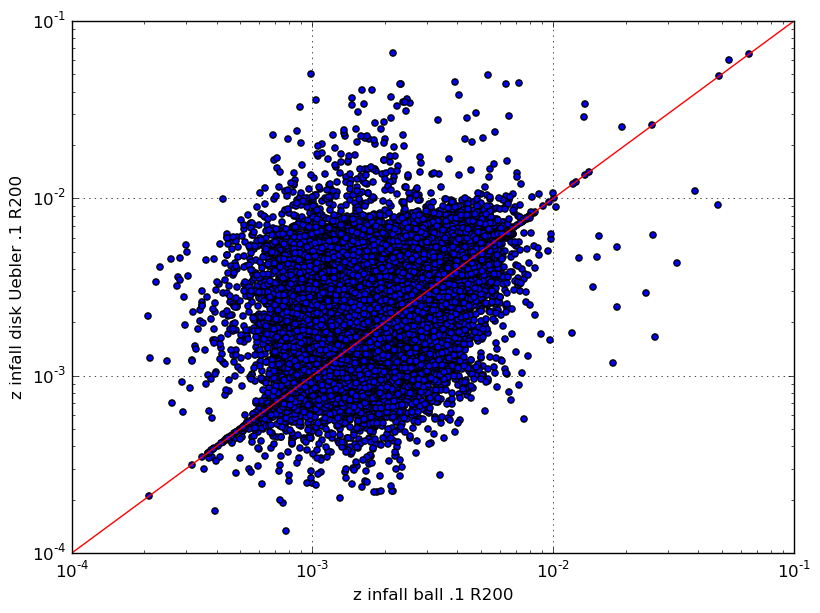
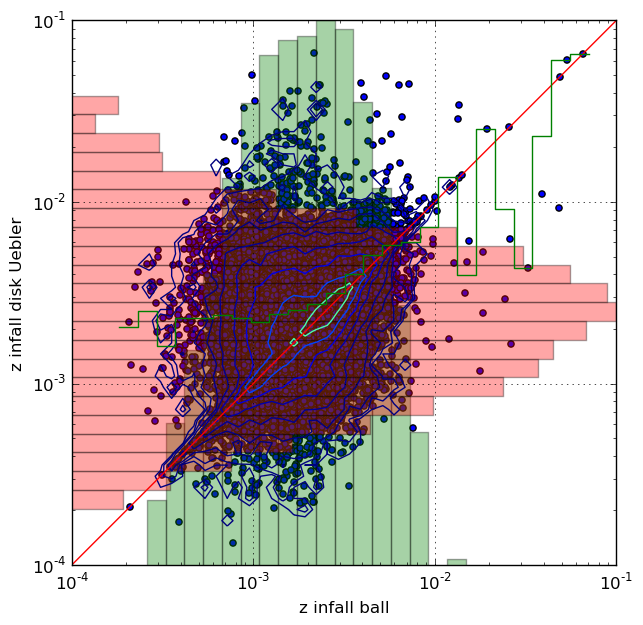
add average plot

diff --git a/1/z_gal_vs_z_halo.py b/1/z_gal_vs_z_halo.py
@@ -3,6 +3,8 @@ import matplotlib.pyplot as plt
 import numpy as np
 from scipy import stats
 import utils
+import matplotlib.cm as cm
+import matplotlib.mlab as mlab
 
 filename = __file__
 
@@ -22,17 +24,42 @@ disk_z = tracked_disk.gas['metals_at_infall'] / tracked_disk.gas['mass_at_infall
 halo_z_1st_infall = [x[0] for x in halo_z]
 disk_z_1st_infall = [x[0] for x in disk_z]
 
+count_h, edges_h, count = stats.binned_statistic(halo_z_1st_infall, range(len(halo_z_1st_infall)), statistic='count', bins=np.logspace(-4, -1, 30))
+normalisation = .1/float(max(count_h))
+count_h = np.array(count_h).astype(float) * normalisation 
+count_d, edges_d, count = stats.binned_statistic(disk_z_1st_infall, range(len(halo_z_1st_infall)), statistic='count', bins=np.logspace(-4, -1, 30))
+normalisation = .1/float(max(count_d))
+count_d = np.array(count_d).astype(float) * normalisation 
+
+disk_infall_avg, edges_h, count = stats.binned_statistic(halo_z_1st_infall, disk_z_1st_infall, statistic='mean', bins=np.logspace(-4, -1, 30))
+# count_h = list(count_h)
+# count_d = list(count_d)
+# count_h.insert(0, count_h[0])
+# count_d.insert(0, count_d[0])
+
+n = 50
+x = np.logspace(-4, -1, n)
+y = np.logspace(-4, -1, n)
+X, Y = np.meshgrid(x[:-1], y[:-1])
+Z = np.histogram2d(disk_z_1st_infall, halo_z_1st_infall, bins=np.logspace(-4, -1, n))[0]
+
 fig, ax = plt.subplots(1)
 plt.tight_layout()
+ax.set_aspect('equal', adjustable='box')
 ax.grid(True)
 ax.scatter(halo_z_1st_infall, disk_z_1st_infall)
-ax.set_xlabel('z infall ball .1 R200')
-ax.set_ylabel('z infall disk Uebler .1 R200')
+ax.set_xlabel('z infall ball')
+ax.set_ylabel('z infall disk Uebler')
 ax.set_xlim((1e-4, 1e-1))
 ax.set_ylim((1e-4, 1e-1))
 ax.set_xscale('log')
 ax.set_yscale('log')
 ax.plot([0, 1e10], [0, 1e10], c='r')
+ax.bar(edges_h[:-1], count_h, width=np.diff(edges_h), log=True, alpha=.35, color='g')
+ax.barh(edges_d[:-1], count_d, height=np.diff(edges_d), log=True, alpha=.35, color='r')
+cont = ax.contour(X, Y, Z, np.logspace(0, 3.2, 10))
+ax.step(edges_h[:-1], disk_infall_avg, where='mid')
+print edges_d[np.argmax(count_d)], edges_h[np.argmax(count_h)]
 
 plt.savefig(filename.split("/")[-1][:-3] + ".png", bbox_inches='tight')
 
